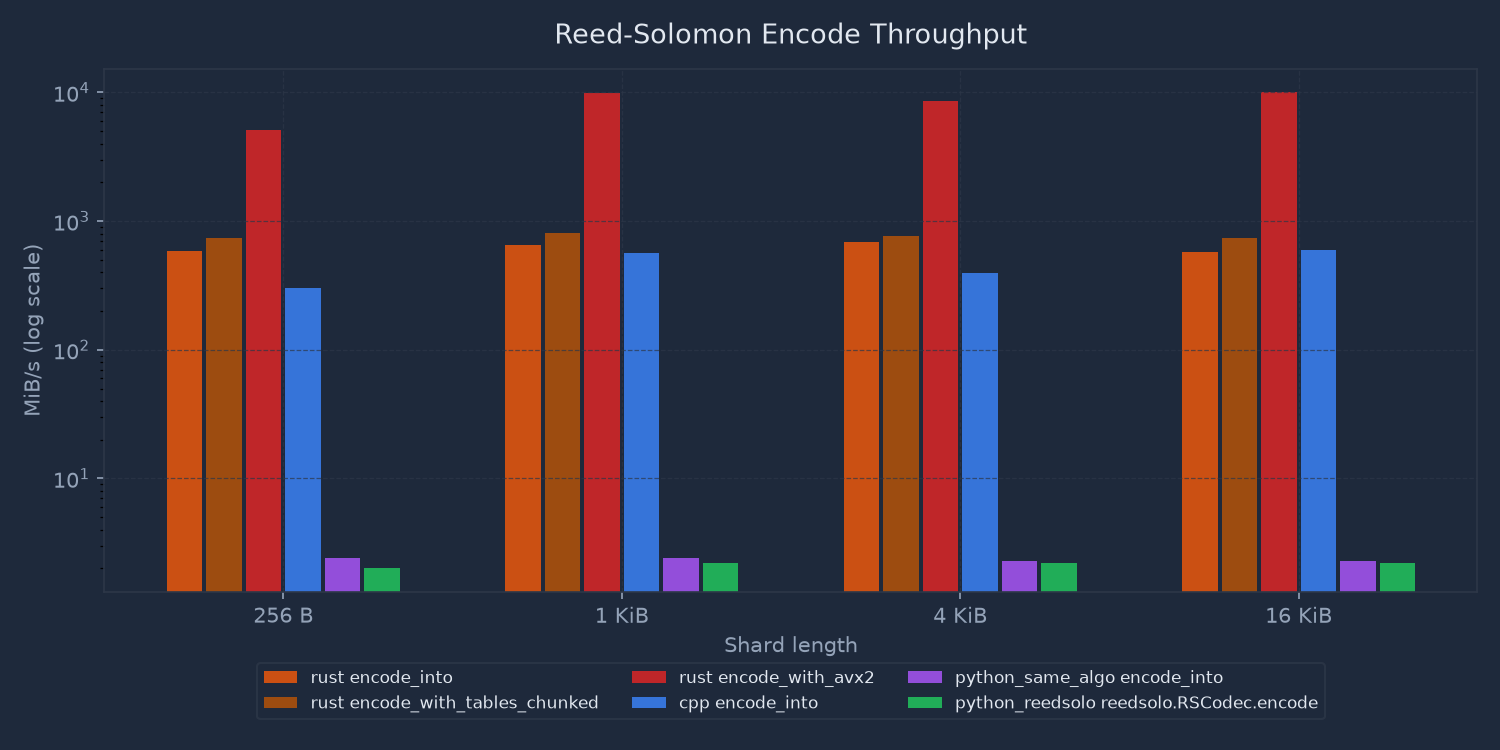
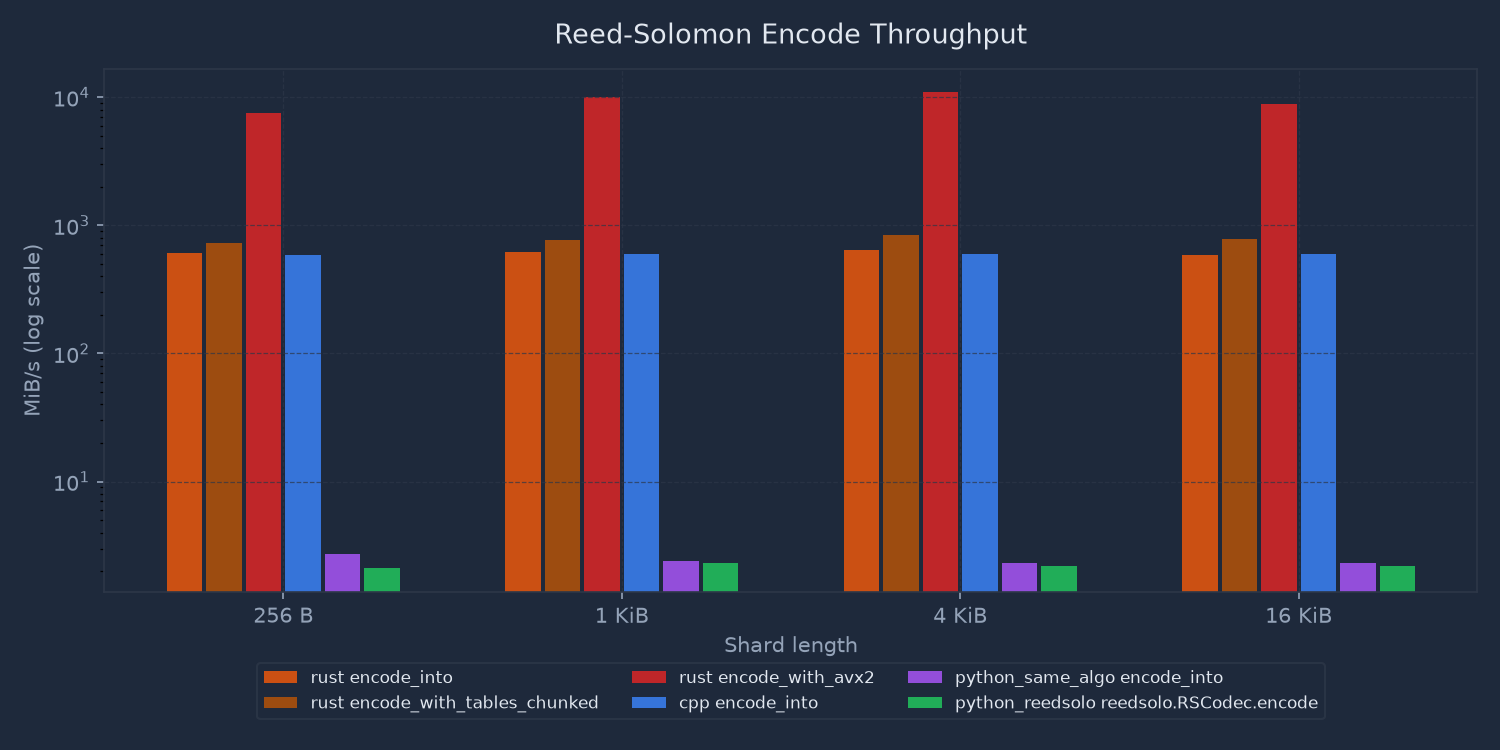
bench: refresh all published numbers from a full run_all.sh
Ran the complete cross-language suite. The checksum gate passed — Rust, C++
and the Python same-algorithm port produce byte-identical parity — so the
timings below are gated on the three implementations agreeing.

The LDPC figure had drifted furthest. README published ~119 Melem/s from a
much older run; the current tree measures ~204 on the machine now recorded in
bench/results/meta.json, across four runs spanning 203.8-213.1. The README
quotes the value in the committed JSON rather than the best of those runs. The
nine-algorithm table in §5.0 moved much less, within about 10% throughout, and
is likewise updated from bench/results/algos.json.

Two measurement bugs surfaced while reconciling the numbers.

ldpc_bench_export labelled its output `"impl":"loms_scalar"`, but it calls
decode_layered_offset_min_sum, which selects AVX2 through
is_x86_feature_detected. Every number ever published under that label was the
vectorized path. Renamed to `loms_runtime_simd`, with the dashboard series
renamed to match; nothing keys on the value, only displays it.

ldpc_pipeline_bench fills every LLR with +5.0 — an error-free codeword — so
the syndrome check passes immediately and the decoder exits after one
iteration, while the metric divides by ten iterations regardless. Its
throughput is inflated by roughly that factor and measures almost no decoding.
README carried it as "~108 Melem/s x workers"; that row is removed and the
[…]

diff --git a/bench/dashboard/app.js b/bench/dashboard/app.js
@@ -145,7 +145,7 @@ function renderLdpc(ldpcRecords) {
   }
 
   const series = [{
-    name: "Rust loms_scalar",
+    name: "Rust loms (AVX2 at runtime)",
     color: LDPC_COLORS.rust,
     data: [byLang["rust"] ?? null],
   }, {

diff --git a/src/bin/ldpc_bench_export.rs b/src/bin/ldpc_bench_export.rs
@@ -65,7 +65,7 @@ fn main() {
     println!("Melem/s        : {melem_per_s:.2}");
 
     let record = format!(
-        r#"  {{"lang":"rust","impl":"loms_scalar","shard_len":0,"data_shards":0,"parity_shards":0,"payload_bytes":{n},"ns_per_iter":{median_ns:.1},"mib_per_s":0,"melem_per_s":{melem_per_s:.2},"n_variable_nodes":{n},"n_iters":{DECODE_ITERS}}}"#
+        r#"  {{"lang":"rust","impl":"loms_runtime_simd","shard_len":0,"data_shards":0,"parity_shards":0,"payload_bytes":{n},"ns_per_iter":{median_ns:.1},"mib_per_s":0,"melem_per_s":{melem_per_s:.2},"n_variable_nodes":{n},"n_iters":{DECODE_ITERS}}}"#
     );
 
     let json = format!("[\n{record}\n]\n");

diff --git a/README.md b/README.md
@@ -43,7 +43,7 @@ see [`bench/README.md`](bench/README.md#ldpc-convergence-gif) to regenerate.*
 | **Tests** | 295 total on x86-64 (296 on AArch64, +1 NEON-only) — 161 unit (incl. multi-threaded SPSC stress + exhaustive Hamming H-matrix proof) · 10 integration (5G NR + Wi-Fi) · 4 media reconstruction · 14 reference vectors · 31 robustness · 75 doctests |
 | **Examples** | 7 runnable, heavily-commented teaching examples (`cargo run --example …`) |
 | **Allocations** | Zero heap allocation inside the decode hot-paths |
-| **Benchmarks** | RS: ~82/64 Gbit/s encode/decode (AVX2 VPSHUFB), LDPC: ~119 Melem/s · all numbers from running code |
+| **Benchmarks** | RS: ~89/66 Gbit/s encode/decode (AVX2 VPSHUFB), LDPC: ~204 Melem/s · all numbers from running code |
 
 ### The algorithm portfolio — one library, every generation
 
@@ -466,19 +466,19 @@ Uniform metric: **information-bit throughput** (payload bits per second — pari
 
 | Algorithm | Configuration | Encode | Decode | Decoder implementation |
 |---|---|---|---|---|
-| Reed-Solomon | RS(10,4), 4 KiB shards | **82 Gbit/s** | **63.8 Gbit/s** | Reconstruction runs through the same AVX2 VPSHUFB kernel as encode; allocation-free per call |
-| CRC-24A | 6144-bit block | **3.95 Gbit/s** | — (detection) | 256-entry byte table (nibble table for CRC-6) |
-| Golay | (24,12), syndrome table | 1.86 Gbit/s | 654 Mbit/s | $O(1)$ syndrome-table lookup |
-| Hamming | (7,4), table | 2.59 Gbit/s | 1.54 Gbit/s | Table lookup |
-| BCH | (255,223,t=4) | **1.17 Gbit/s** | **209 Mbit/s** | Weight-proportional syndrome tables + per-$\beta$ Chien multiply tables + byte-wise LFSR (~70 KiB tables) |
-| Viterbi | K=7, R=1/2, soft | 557 Mbit/s | **29.9 Mbit/s** | AVX2 ACS: all 64 trellis states per step in 8-wide lanes, shuffle-deinterleaved butterflies |
-| Polar | (1024,512), SC | 133 Mbit/s | **35.0 Mbit/s** | Allocation-free recursion; partial sums in $O(N \log N)$ via GF(2) linearity; branch-free $f$/$g$ kernels |
-| Turbo | LTE K=1024, 8 iter | 328 Mbit/s | **13.4 Mbit/s** | AVX2 BCJR: 8 states per register, bit-identical to scalar (sign-exact $\pm 1$ arithmetic, no FMA) |
-| QC-LDPC | BG1 Z=384, 10 iter | **1.66 Gbit/s** | 11.6 Mbit/s | AVX2/NEON layered offset min-sum (§5.2). Encode uses the sparse double-diagonal solve, derived programmatically from the 3GPP tables |
+| Reed-Solomon | RS(10,4), 4 KiB shards | **89.0 Gbit/s** | **66.0 Gbit/s** | Reconstruction runs through the same AVX2 VPSHUFB kernel as encode; allocation-free per call |
+| CRC-24A | 6144-bit block | **3.71 Gbit/s** | — (detection) | 256-entry byte table (nibble table for CRC-6) |
+| Golay | (24,12), syndrome table | 1.82 Gbit/s | 625 Mbit/s | $O(1)$ syndrome-table lookup |
+| Hamming | (7,4), table | 2.46 Gbit/s | 1.09 Gbit/s | Table lookup |
+| BCH | (255,223,t=4) | **976 Mbit/s** | **243 Mbit/s** | Weight-proportional syndrome tables + per-$\beta$ Chien multiply tables + byte-wise LFSR (~70 KiB tables) |
+| Viterbi | K=7, R=1/2, soft | 545 Mbit/s | **29.2 Mbit/s** | AVX2 ACS: all 64 trellis states per step in 8-wide lanes, shuffle-deinterleaved butterflies |
+| Polar | (1024,512), SC | 123 Mbit/s | **37.2 Mbit/s** | Allocation-free recursion; partial sums in $O(N \log N)$ via GF(2) linearity; branch-free $f$/$g$ kernels |
+| Turbo | LTE K=1024, 8 iter | 313 Mbit/s | **11.6 Mbit/s** | AVX2 BCJR: 8 states per register, bit-identical to scalar (sign-exact $\pm 1$ arithmetic, no FMA) |
+| QC-LDPC | BG1 Z=384, 10 iter | **1.55 Gbit/s** | 10.9 Mbit/s | AVX2/NEON layered offset min-sum (§5.2). Encode uses the sparse double-diagonal solve, derived programmatically from the 3GPP tables |
 
 The pattern is the story of modern FEC: **the stronger the code, the more the decoder costs.** Table-driven classics decode at line rate but correct little; the capacity-approaching iterative codes (Turbo, LDPC, Polar) pay orders of magnitude more per bit — which is exactly why production basebands parallelise them across cores and SIMD lanes (see §5.2 and the pipeline in §3).
 
-Every SIMD path keeps its scalar implementation as a tested reference, and the two are proven output-equivalent by seeded randomized round-trips rather than assumed equivalent. §5.2 measures that scalar path against the vectorized one on the same input, so the speed-up attributable to SIMD is reproducible on your own machine.
+Every SIMD path keeps its scalar implementation as a tested reference, and the two are proven output-equivalent by seeded randomized round-trips rather than assumed equivalent. §5.2 puts the vectorized decoder next to the same algorithm compiled from C++, both measured in one run of `bench/run_all.sh`, so the comparison is reproducible on your own machine.
 
 Reproduce: `cargo run --release --bin algo_bench_export` → `bench/results/algos.json` → `python bench/dashboard/gen_charts.py`.
 
@@ -490,11 +490,12 @@ Reproduce: `cargo run --release --bin algo_bench_export` → `bench/results/algo
 
 | Implementation | 256 B | 1 KiB | 4 KiB | 16 KiB |
 |---|---|---|---|---|
-| **Rust `encode_with_avx2` (VPSHUFB)** | **~5 GiB/s** | **~10 GiB/s** | **~8.5 GiB/s** | **~10 GiB/s** |
-| Rust `encode_with_tables_chunked` | ~740 MiB/s | ~810 | ~770 | ~740 |
-| Rust `encode_into` | ~590 MiB/s | ~660 | ~690 | ~570 |
-| C++ same-algorithm `-O3 -march=native` | within ~5% of scalar Rust | | | |
-| Python same-algorithm | ~2.7 MiB/s | ~2.5 | ~2.4 | ~2.4 |
+| **Rust `encode_with_avx2` (VPSHUFB)** | **~7.4 GiB/s** | **~9.8 GiB/s** | **~10.7 GiB/s** | **~8.7 GiB/s** |
+| Rust `encode_with_tables_chunked` | ~729 MiB/s | ~762 | ~844 | ~776 |
+| Rust `encode_into` | ~613 MiB/s | ~618 | ~638 | ~585 |
+| C++ same-algorithm `-O3 -march=native` | ~588 MiB/s | ~594 | ~592 | ~594 |
+| Python same-algorithm | ~2.7 MiB/s | ~2.4 | ~2.3 | ~2.3 |
+| Python `reedsolo` library | ~2.1 MiB/s | ~2.3 | ~2.2 | ~2.2 |
 
 The AVX2 path uses VPSHUFB nibble-decomposition: `GF_mul(c, x) = lo_tbl[x & 0xF] ^ hi_tbl[x >> 4]`, processing 32 bytes/cycle.  Rust and C++ produce **byte-identical parity output** (checksum-gated).
 
@@ -507,10 +508,18 @@ Metric: $N \times \text{iters} / t_{\text{call}}$ (variable-node-iterations/s).
 
 | Implementation | Throughput | Wall-clock / call |
 |---|---|---|
-| **Rust AVX2 (runtime-detected)** | **~119 Melem/s** | **~2.2 ms** |
-| Rust multi-worker (4 threads, AVX2) | ~108 Melem/s × workers | ~2.4 ms/frame |
-| Rust scalar | ~65 Melem/s | ~4.0 ms |
-| C++ scalar `-O3 -march=native` | ~66 Melem/s | ~3.9 ms |
+| **Rust, AVX2 selected at runtime** | **~204 Melem/s** | **~1.28 ms** |
+| C++ scalar `-O3 -march=native` | ~67 Melem/s | ~3.88 ms |
+
+Both rows come from the same run of `bench/run_all.sh`, decoding the same
+codeword for the same number of iterations, on the machine recorded in
+`bench/results/meta.json`. Rust's scalar path is not listed as a separate row
+because nothing in the tree currently benchmarks it in isolation — the decoder
+selects AVX2 through `is_x86_feature_detected!` and there is no entry point
+that forces the scalar kernel, so a scalar figure could not be reproduced by
+running this repository. The scalar implementation itself is still present and
+is proven output-equivalent to the SIMD kernels by seeded randomized tests;
+only its throughput is unmeasured.
 
 AVX2 speed-up breakdown (3 optimisations that together match C++ on the scalar path):
 1. **Loop inversion** — Z-inner loop (384 independent iterations) gives LLVM a vectorisable axis.

diff --git a/bench/README.md b/bench/README.md
@@ -107,3 +107,23 @@ python3 bench/dashboard/gen_convergence_gif.py
 | `bench/results/rust.checksum` | Hex parity bytes for correctness gate |
 | `bench/results/cpp.checksum` | Same, from C++ |
 | `bench/results/python_same_algo.checksum` | Same, from Python |
+| `bench/results/ldpc_rust.json` | LDPC decode, Rust, AVX2 selected at runtime |
+| `bench/results/ldpc_cpp.json` | LDPC decode, C++ scalar `-O3 -march=native` |
+| `bench/results/ldpc_pipeline_rust.json` | SPSC pipeline frame rate — see the caveat below |
+
+### Caveat: `ldpc_pipeline_bench` does not measure decode throughput
+
+`src/bin/ldpc_pipeline_bench.rs` fills every frame's LLR buffer with the
+constant `+5.0`, which is an error-free codeword at high confidence. The
+syndrome check therefore passes on the first pass and the decoder returns after
+one iteration instead of ten. Its `melem_per_s` is nevertheless computed as
+`n_variable_nodes × 10 / ns_per_frame`, so the figure counts nine iterations of
+work that never ran and is roughly an order of magnitude above what the same
+frames would cost with real channel noise.
+
+The number is consequently not comparable to `ldpc_rust.json` and is not quoted
+in the README. What the binary does measure honestly is the ring-buffer and
+worker-handoff machinery — frames per second through the SPSC pipeline with a
+negligible payload. Making it a throughput benchmark means feeding
+AWGN-corrupted codewords (as `src/bin/ldpc_convergence_export.rs` does) and
+dividing by the iterations actually consumed.
